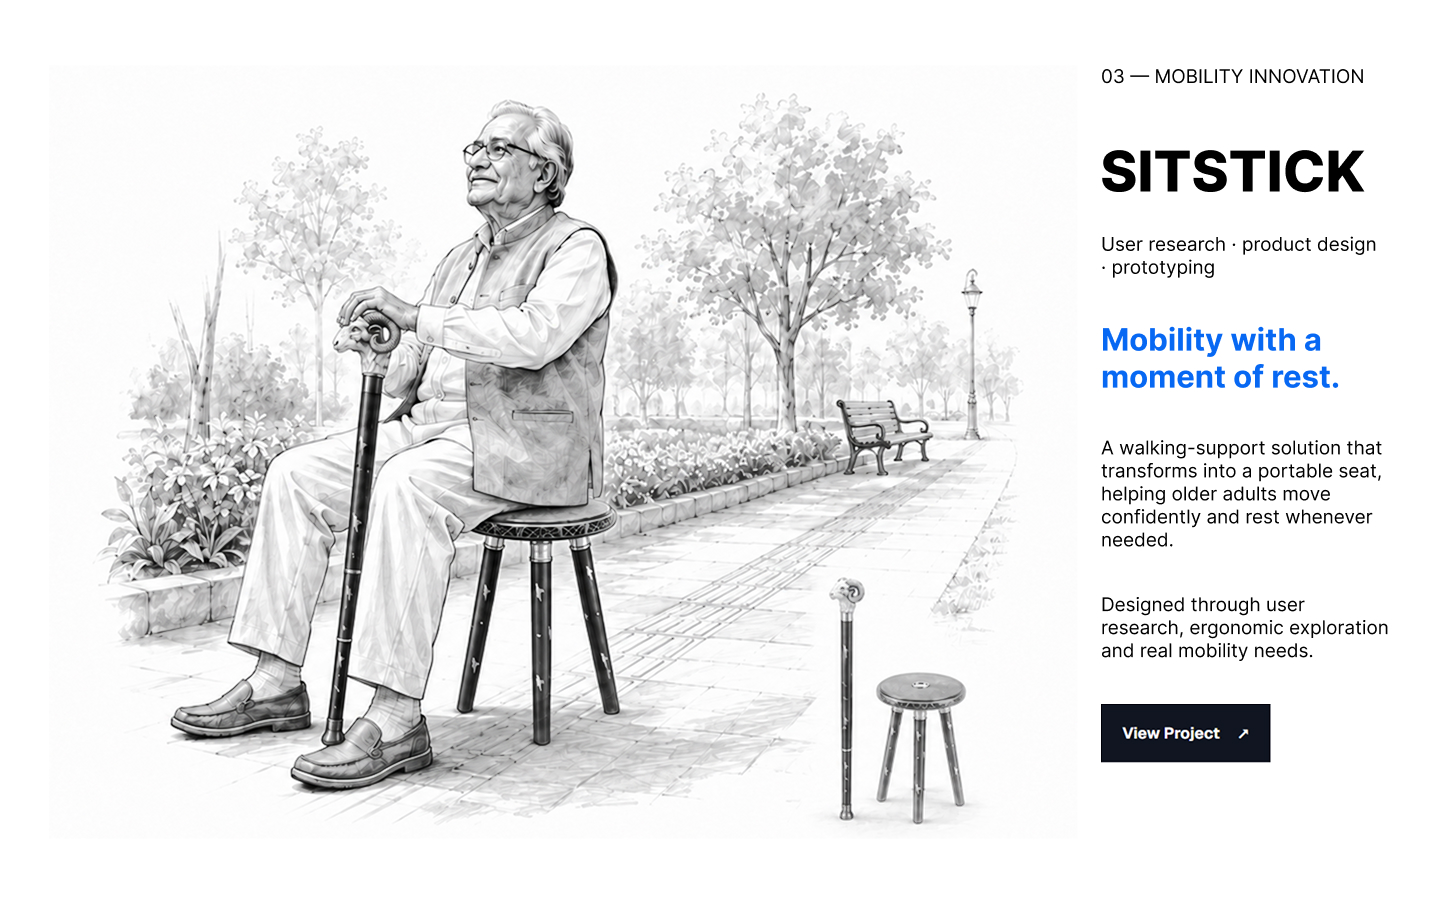
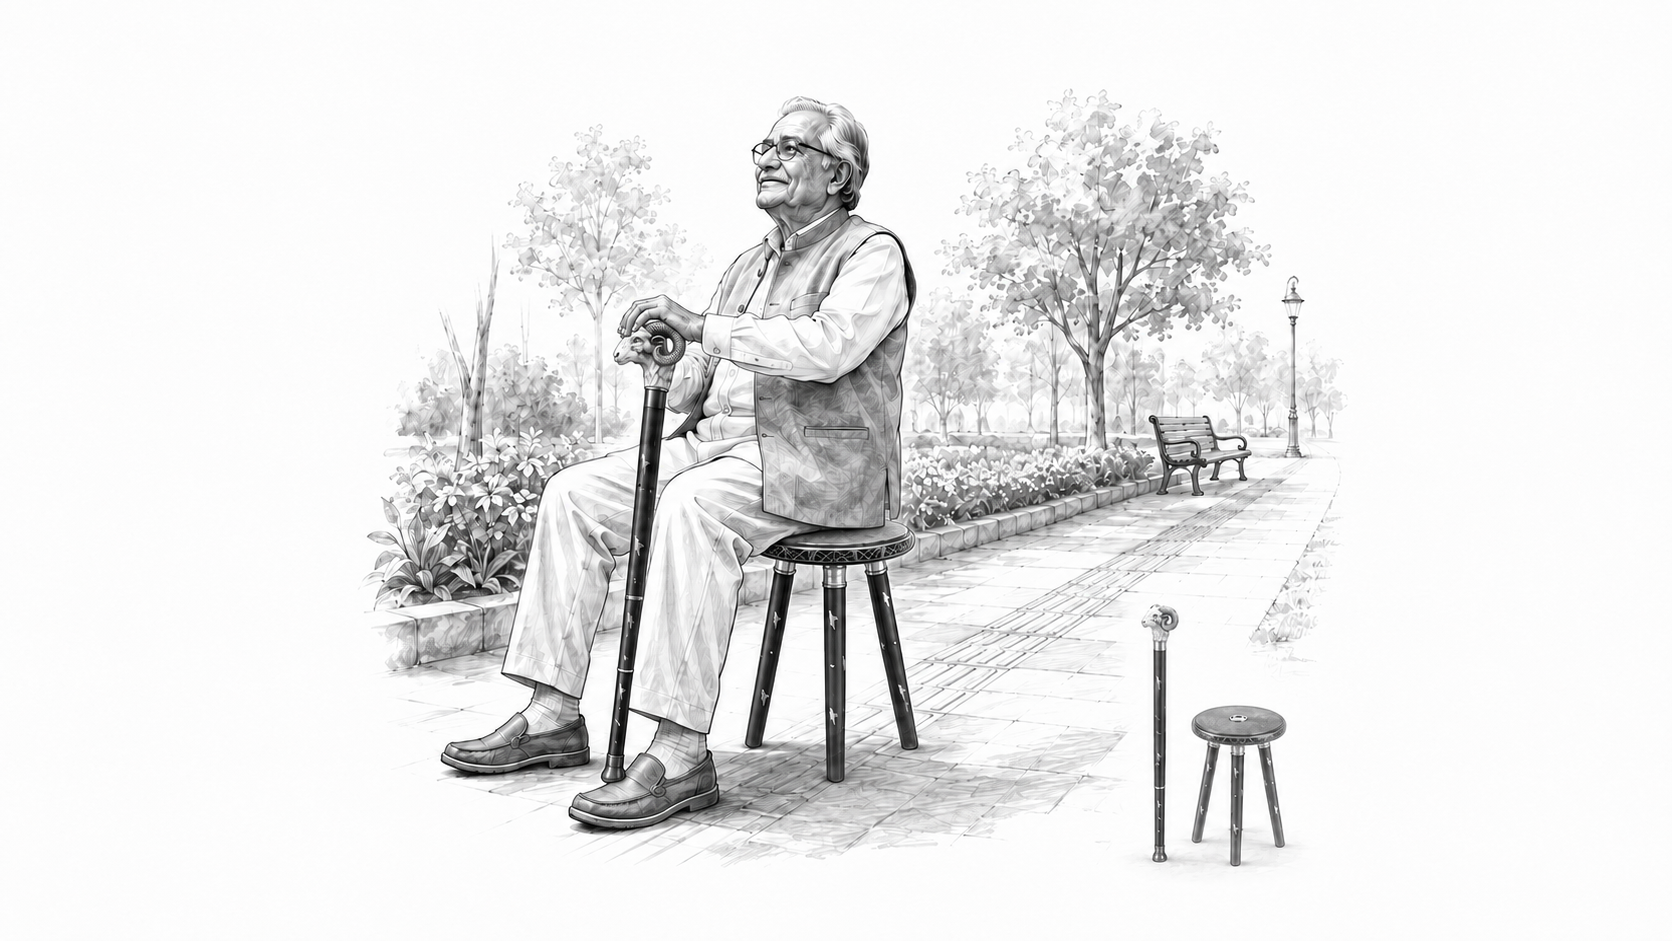
feat: update SitStick project images for improved alignment and responsiveness

diff --git a/tests/project-motion.spec.ts b/tests/project-motion.spec.ts
@@ -328,7 +328,7 @@ test('project anchors and original links retain their destinations', async ({
   await external.close();
 });
 
-test('SitStick crops embedded text without modifying images and reverses through Tavvro', async ({
+test('SitStick contains clean aligned images and reverses through Tavvro', async ({
   page,
   context,
 }) => {
@@ -375,7 +375,8 @@ test('SitStick crops embedded text without modifying images and reverses through
   await expect(crop).toHaveCSS('overflow', 'hidden');
   const cropBounds = (await crop.boundingBox())!;
   const sourceBounds = (await images.nth(0).boundingBox())!;
-  expect(cropBounds.width / sourceBounds.width).toBeCloseTo(0.75, 2);
+  expect(cropBounds.width / sourceBounds.width).toBeCloseTo(1, 2);
+  expect(sourceBounds.width / sourceBounds.height).toBeCloseTo(1672 / 941, 2);
   expect(sourceBounds.x).toBeCloseTo(cropBounds.x, 1);
   await expect(project.locator('.ventry-right')).toHaveCount(1);
   const url =
@@ -552,4 +553,62 @@ test('touch projects stay monochrome on initial scroll', async ({ browser }) => 
     await expect(artwork.locator('.ventry-colour')).toHaveCSS('opacity', '0');
   }
   await context.close();
+});
+
+test('clean SitStick illustrations fit and hover at every requested width', async ({ page }) => {
+  const errors: string[] = [];
+  page.on('pageerror', error => errors.push(error.message));
+  page.on('console', message => { if (message.type() === 'error') errors.push(message.text()); });
+  await openPortfolio(page);
+  for (const [width, height] of [[1920,1080], [1440,900], [1366,768], [1024,768], [768,1024], [390,844]]) {
+    await page.setViewportSize({width, height});
+    await page.mouse.move(0,0);
+    const project = page.locator('#sitstick');
+    const artwork = project.locator('.ventry-artwork');
+    const colour = project.locator('.ventry-colour');
+    if (width >= 1024) await scrollProject(page, 1.9);
+    else await artwork.scrollIntoViewIfNeeded();
+    await expect(artwork).toHaveCSS('opacity', '1');
+    await expect(artwork).toHaveCSS('filter', /^(none|blur\(0px\))$/);
+    await expect(project.locator('.project-image-entrance')).toHaveCSS('opacity', '1');
+    await expect(colour).toHaveCSS('opacity', '0');
+    const bounds = (await artwork.boundingBox())!;
+    const images = project.locator('img');
+    for (const img of await images.all()) {
+      await expect(img).toHaveCSS('object-fit', 'contain');
+      await expect(img).toHaveCSS('object-position', '50% 50%');
+      await expect(img).toHaveCSS('max-width', '100%');
+      expect(await img.evaluate(el => [(el as HTMLImageElement).naturalWidth, (el as HTMLImageElement).naturalHeight])).toEqual([1672,941]);
+      const imageBounds = (await img.boundingBox())!;
+      expect(imageBounds.x).toBeCloseTo(bounds.x, 0);
+      expect(imageBounds.y).toBeCloseTo(bounds.y, 0);
+      expect(imageBounds.width).toBeCloseTo(bounds.width, 0);
+      expect(imageBounds.height).toBeCloseTo(bounds.height, 0);
+      expect(imageBounds.width / imageBounds.height).toBeCloseTo(1672 / 941, 2);
+    }
+    expect(bounds.x).toBeGreaterThanOrEqual(0);
+    expect(bounds.x + bounds.width).toBeLessThanOrEqual(width);
+    await expect(project.locator('.ventry-right')).toHaveCount(1);
+    if (width >= 1024) {
+      const panel = (await project.locator('.ventry-right').boundingBox())!;
+      expect(bounds.x + bounds.width).toBeLessThanOrEqual(panel.x + 1);
+      expect(bounds.y + bounds.height).toBeLessThanOrEqual(height);
+      expect(bounds.y + bounds.height / 2).toBeCloseTo(panel.y + panel.height / 2, 0);
+    } else {
+      const panel = (await project.locator('.ventry-right').boundingBox())!;
+      expect(bounds.y + bounds.height).toBeLessThanOrEqual(panel.y);
+    }
+    await page.screenshot({path: `work/sitstick-clean-${width}-bw.png`});
+    await artwork.hover();
+    await expect(colour).toHaveCSS('opacity', '1');
+    expect(await images.nth(0).boundingBox()).toEqual(await images.nth(1).boundingBox());
+    expect(await artwork.boundingBox()).toEqual(bounds);
+    await page.screenshot({path: `work/sitstick-clean-${width}-hover.png`});
+    await page.mouse.move(0,0);
+    await expect(colour).toHaveCSS('opacity', '0');
+    await project.locator('.ventry-button').scrollIntoViewIfNeeded();
+    await expect(project.locator('.ventry-button')).toBeVisible();
+    expect(await page.evaluate(() => document.documentElement.scrollWidth <= innerWidth)).toBeTruthy();
+  }
+  expect(errors).toEqual([]);
 });

diff --git a/app/page.tsx b/app/page.tsx
@@ -1052,26 +1052,21 @@ function IllustratedProject({ mobility = false }: { mobility?: boolean }) {
           <div className="project-image-entrance">
             {mobility ? (
               <>
-                <div className="sitstick-image-source">
-                  <img
-                    className="sitstick-layer ventry-mono"
-                    src={monoImage}
-                    alt={project.alt}
-                    width="1440"
-                    height="904"
-                  />
-                </div>
-                <div className="sitstick-colour-reveal ventry-colour" aria-hidden="true">
-                  <div className="sitstick-image-source">
-                    <img
-                      className="sitstick-layer"
-                      src={colourImage}
-                      alt=""
-                      width="1440"
-                      height="904"
-                    />
-                  </div>
-                </div>
+                <img
+                  className="sitstick-layer ventry-mono"
+                  src={monoImage}
+                  alt={project.alt}
+                  width="1672"
+                  height="941"
+                />
+                <img
+                  className="sitstick-layer sitstick-colour-reveal ventry-colour"
+                  src={colourImage}
+                  alt=""
+                  aria-hidden="true"
+                  width="1672"
+                  height="941"
+                />
               </>
             ) : (
               <>

diff --git a/app/globals.css b/app/globals.css
@@ -3996,6 +3996,7 @@ section[id], footer[id] { scroll-margin-top: 90px; }
   height: 100%;
 }
 .sitstick-layer {
+  max-width: 100%;
   object-fit: contain;
   object-position: center;
 }
@@ -4150,14 +4151,13 @@ section[id], footer[id] { scroll-margin-top: 90px; }
 .projects-motion .ventry-right h3 { font-size: clamp(25px, 2.35vw, 38px); line-height: 1.08; }
 .projects-motion :is(.ventry-description, .ventry-support) { font-size: clamp(15px, 1.2vw, 20px); line-height: 1.4; }
 .projects-motion .ventry-button { width: fit-content; min-height: 48px; height: auto; padding: 15px 19px; }
-/* Preserve the supplied 1440 x 904 images; show only the left 75%. */
+/* Clean illustration-only sources share their native ratio, without a crop. */
 .sitstick-project .project-image-entrance { overflow: hidden; }
-.projects-motion .sitstick-image-source {
-  position: absolute;
-  inset: 0 auto 0 0;
-  width: 133.333333%;
-  max-width: none;
-  height: 100%;
+.projects-motion .sitstick-project .ventry-artwork {
+  aspect-ratio: 1672 / 941;
+}
+.projects-motion.is-pinned .sitstick-project .ventry-artwork {
+  max-width: min(100%, calc((100svh - var(--project-nav-height, 92px) - 24px) * 1672 / 941));
 }
 @media (min-width: 1024px) and (max-width: 1439px) {
   .projects-motion .ventry-editorial { grid-template-columns: minmax(0, 66fr) minmax(0, 34fr); }
